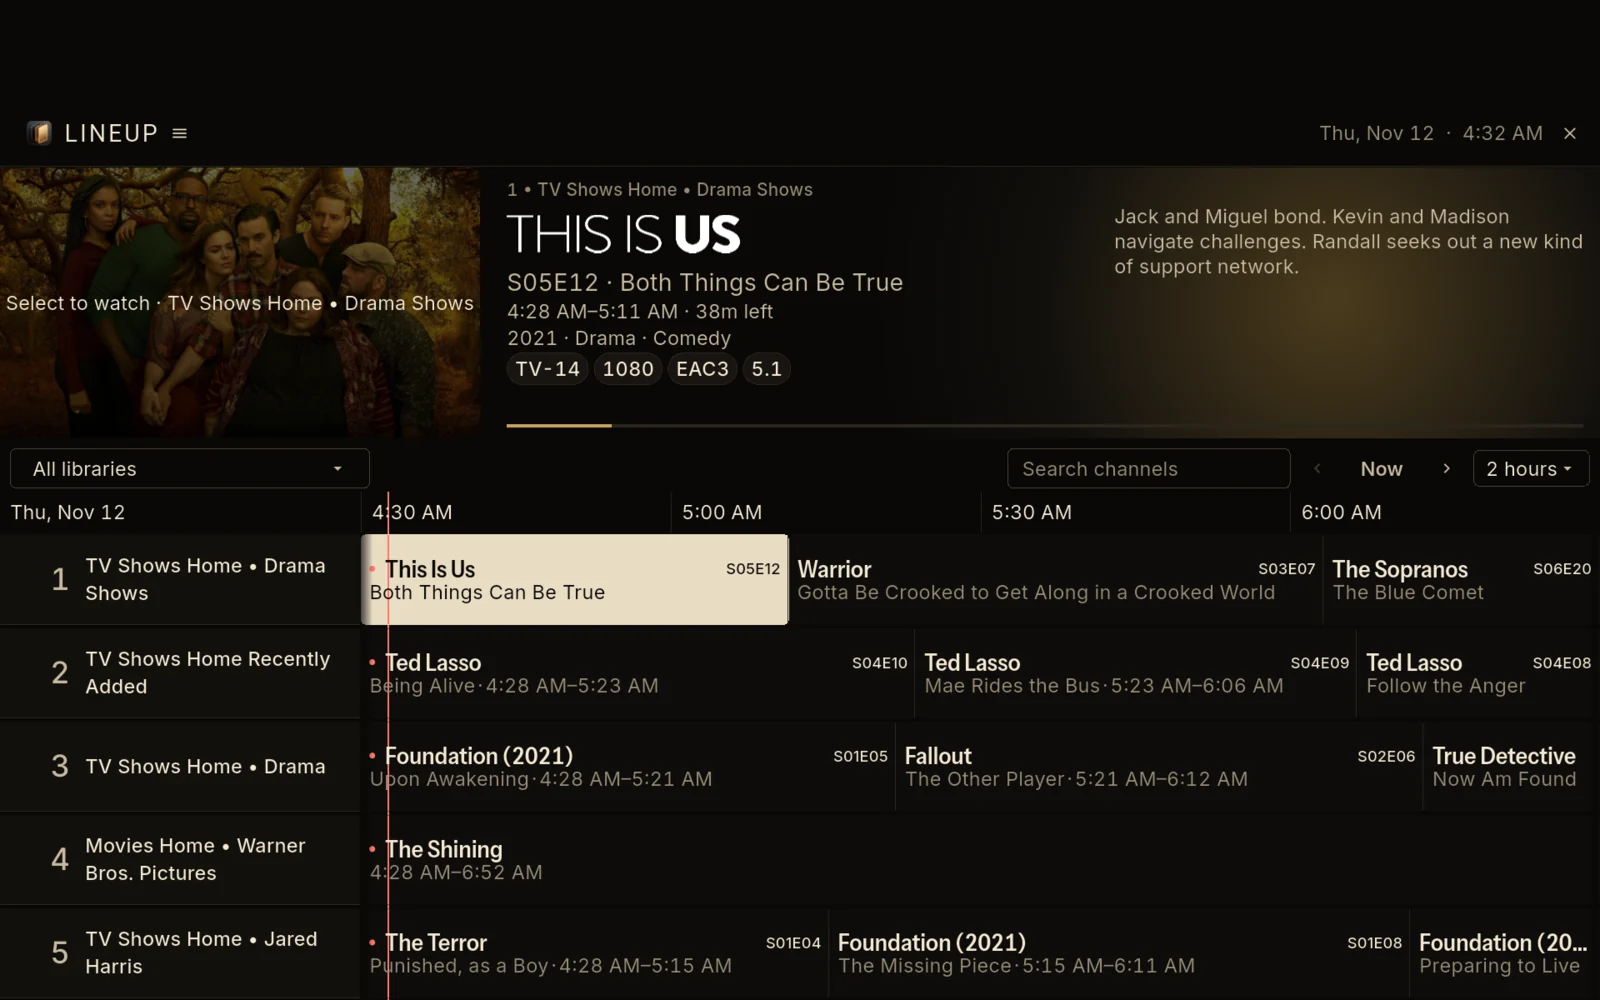
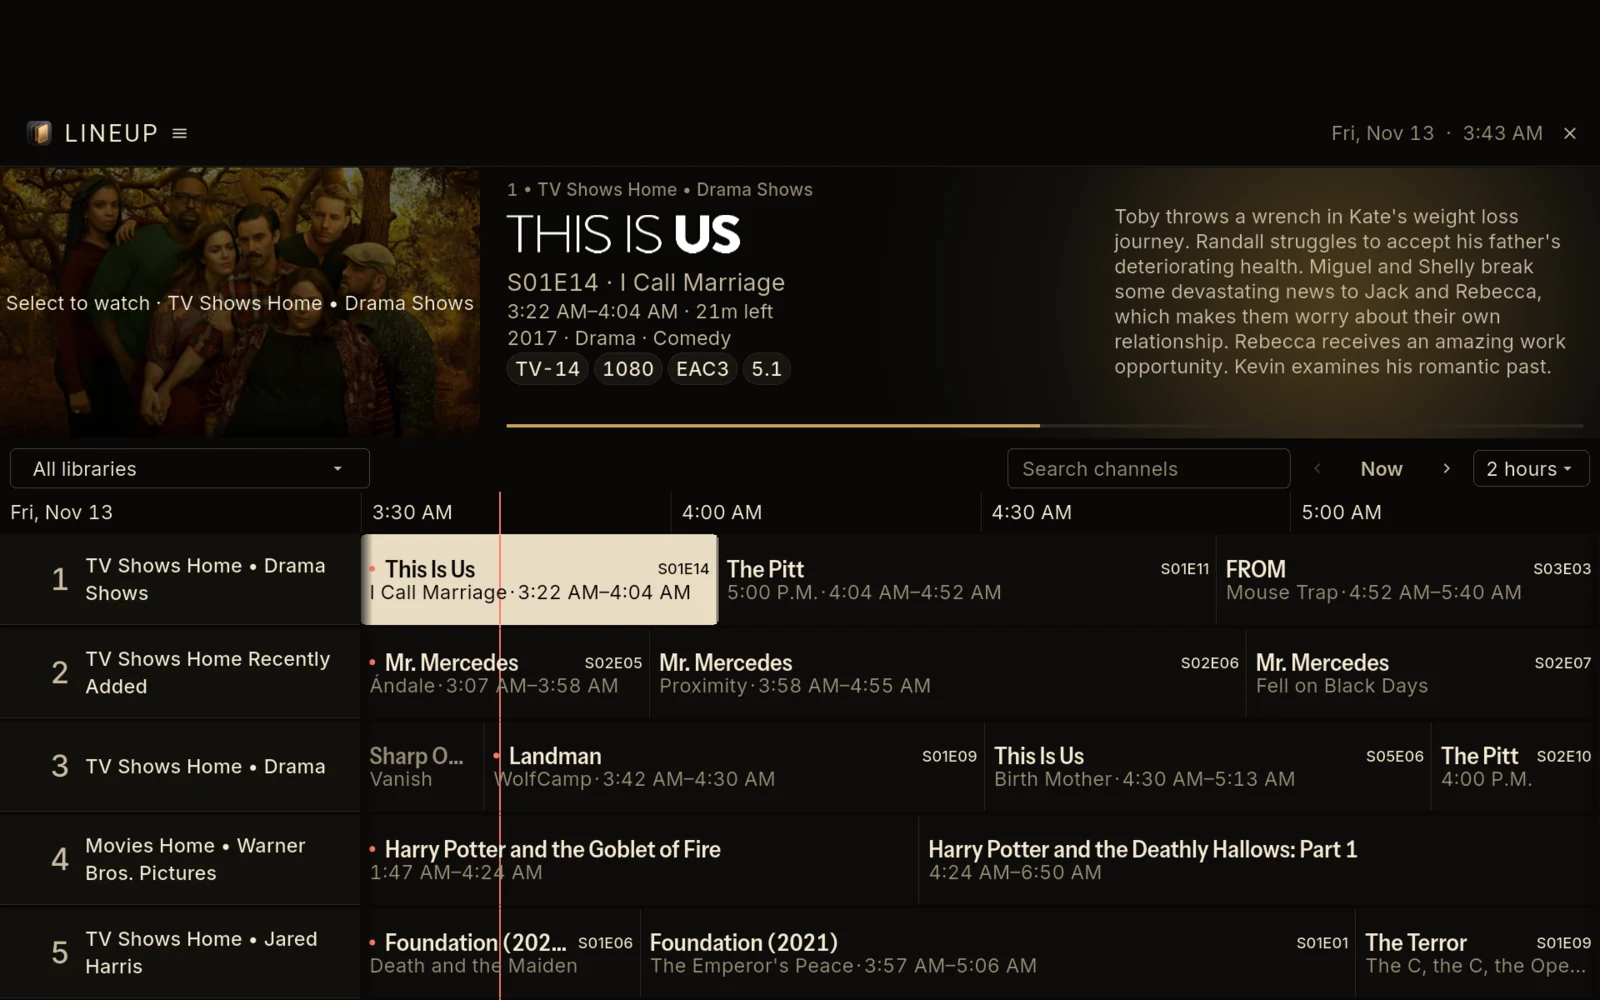
docs(site): update the TV Guide shot and row wording for the L40 Guide
Retake the Android TV Guide screenshot from the L40 build and describe the
L40 behaviour: five rows, six on taller screens, the picture giving way
before rows shrink, and the channel source hiding when rows are short.

diff --git a/docs/guides/settings.md b/docs/guides/settings.md
@@ -12,7 +12,7 @@ Settings save when you change them. The control you're editing is usually disabl
 | Category | What you can change |
 | --- | --- |
 | **Appearance** | **Theme** offers **Ember & Steel**, **Slate & Pine**, **Mint Noir**, and **Satellite Blue**. **Player overlays** has three transparency choices. **Guide information background** offers **Artwork colors**, **Theme background**, and **Artwork backdrop**. **Use title artwork** shows Plex title artwork where available. |
-| **Guide** | **Visible hours** offers 2, 3, or 4 hours. Use **Show channel sources** and **Show now playing in Guide** to choose which extra details the Guide shows. |
+| **Guide** | **Visible hours** offers 2, 3, or 4 hours. Use **Show channel sources** and **Show now playing in Guide** to choose which extra details the Guide shows. When rows are short, such as with larger text, the Guide leaves out the channel source to keep each row readable. |
 | **Playback** | **Player controls auto-hide** offers 2, 4, 6, 8, 10, or 15 seconds. See [The Player](player.md) for **DVR playback controls** and the Windows option **Match display HDR in fullscreen**, which is on by default. |
 | **Subtitles** | See [Subtitle appearance](subtitle-appearance.md) for the preview, style controls, and device settings. |
 | **Accessibility** | **Reduce motion** shortens or removes movement across management screens, Guide, and Player. **Large focus indicators** makes keyboard and remote focus easier to see. |

diff --git a/docs/images/README.md b/docs/images/README.md
@@ -15,7 +15,7 @@ This file is excluded from the site build.
 | `home-osd.webp` | macOS 27 | Same build | Player with the compact on-screen controls; subtitles off |
 | `home-now-playing.webp` | macOS 27 | Same build | Player with Now Playing expanded |
 | `home-air-check.webp` | macOS 27 | Same build | Channel Studio, unsaved custom draft "Animation Matinee" (discarded after capture) with the schedule preview |
-| `home-tv-guide.webp` | Android TV emulator (`lineup_tv_media`, API 31, 1920×1080) | Debug build of `f7daf2c790d66a1020ebec4767efe2f93d91fa05` (Flutter 3.47.7) | Full Guide, channels 1–5, focus on an airing program, preview artwork in the picture-in-picture (no playback: the emulator cannot decode this library's HEVC/Dolby Vision video or EAC3/AC3 audio). The 16:9 capture is extended at the top with the app background `#090806` to 16:10 |
+| `home-tv-guide.webp` | Android TV emulator (`lineup_tv_media`, API 31, 1920×1080, font scale 1.3) | Debug build of `feat/guide-l40` at `48ca282f` (Flutter 3.47.7), retaken 2026-11-13 | Full Guide with the L40 information band, channels 1–5, focus on an airing program, preview artwork in the picture-in-picture (no playback: the emulator cannot decode this library's HEVC/Dolby Vision video or EAC3/AC3 audio). The 16:9 capture is extended at the top with the app background `#090806` to 16:10 |
 
 The macOS captures were cropped from 3456×2168 to 3456×2160 (bottom 8 px) and
 scaled to 1600×1000.

diff --git a/docs/guides/guide.md b/docs/guides/guide.md
@@ -57,7 +57,7 @@ Use the library picker to show one library's channels, or **All libraries**. The
 
 ## See more of the schedule
 
-The Guide shows two hours by default. Switch to three or four hours from the menu next to **Now**. The layout targets five channels at a time, with fewer when window size or larger text leaves less room. You can browse earlier in the schedule with the time controls. The Guide has no separate past-window or row-density setting.
+The Guide shows two hours by default. Switch to three or four hours from the menu next to **Now**. The Guide shows five channels at a time, or six on taller screens such as MacBooks and 16:10 monitors. Small windows and larger text keep the rows comfortable by making the picture smaller first, and show fewer channels only when there isn't room for five. You can browse earlier in the schedule with the time controls. The Guide has no separate past-window or row-density setting.
 
 ## Program details
 
